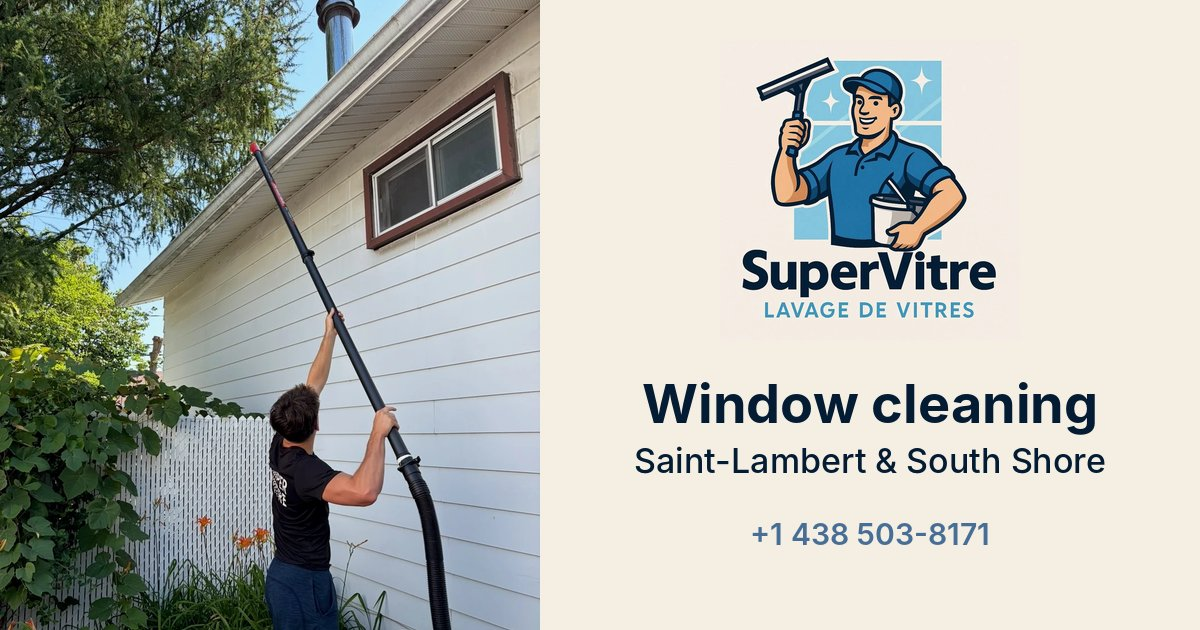
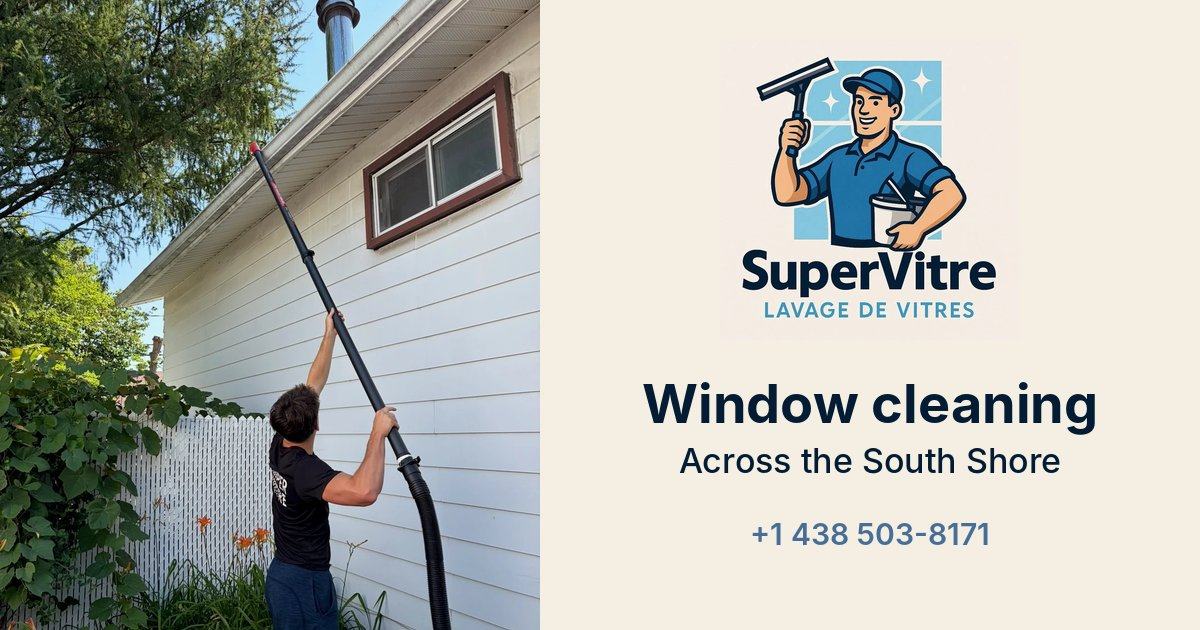
Service area: the whole Rive-Sud, not just Saint-Lambert
SuperVitre serves the entire South Shore. Titles, descriptions, H1, hero,
FAQ, contact card, about page and share images now say so, and the FAQ
and areaServed name the main towns (Longueuil incl. Saint-Hubert and
Greenfield Park, Brossard, Saint-Lambert, Boucherville, Saint-Bruno,
La Prairie, Candiac, Chambly, Sainte-Julie, Varennes).

Claude-Session: https://claude.ai/code/session_01GJhxdKeALg4dwbH1iPFPm5

Changed region(s): [[0.5242, 0.6937, 0.925, 0.754]]

diff --git a/lib/business.ts b/lib/business.ts
@@ -5,8 +5,20 @@ export const BUSINESS_NAME = "SuperVitre"
 
 export const PHONE = { display: "+1 (438) 503-8171", tel: "+14385038171" }
 
-// Towns named in areaServed. Add a town only where we really work (it should also appear in the FAQ and contact copy).
-export const SERVICE_AREA = ["Saint-Lambert"]
+// We serve the whole Rive-Sud. These are the towns named in areaServed; keep them in sync with
+// the first FAQ answer in messages/*.json, which lists the same towns.
+export const SERVICE_AREA = [
+  "Longueuil",
+  "Brossard",
+  "Saint-Lambert",
+  "Boucherville",
+  "Saint-Bruno-de-Montarville",
+  "La Prairie",
+  "Candiac",
+  "Chambly",
+  "Sainte-Julie",
+  "Varennes",
+]
 
 // Same hours as contact.hours in messages/*.json
 export const OPENING_HOURS = {
@@ -20,6 +32,6 @@ export const PRICE_RANGE = "180–350 CAD"
 
 // Day each page's copy last changed, for the sitemap's lastmod
 export const PAGES = [
-  { path: "", updated: "2026-10-28", priority: 1 },
-  { path: "/about", updated: "2026-10-28", priority: 0.5 },
+  { path: "", updated: "2026-10-29", priority: 1 },
+  { path: "/about", updated: "2026-10-29", priority: 0.5 },
 ]
